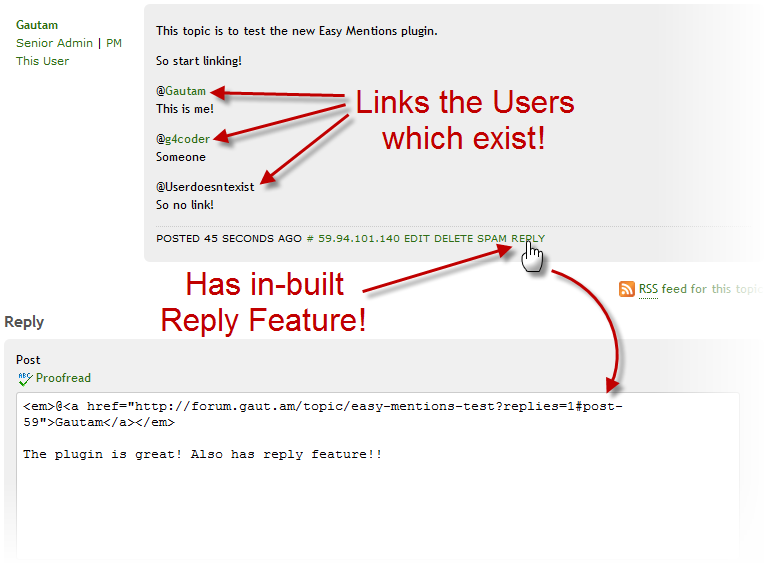
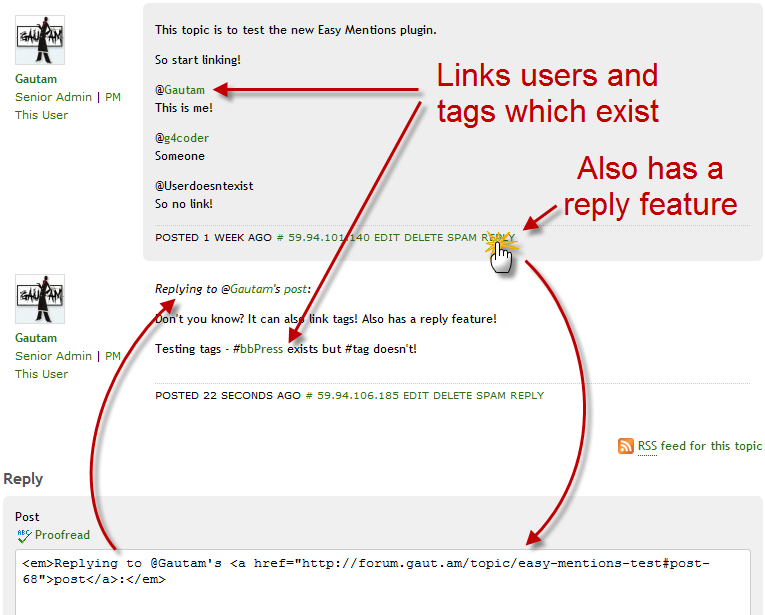
Many Changes

diff --git a/easy-mentions/trunk/js/admin.js b/easy-mentions/trunk/js/admin.js
@@ -1,0 +1,33 @@
+/**
+ * Javascript file for Admin Page
+ * 
+ * @author Gautam Gupta (www.gaut.am)
+ * @link http://gaut.am/bbpress/plugins/easy-mentions/
+ */
+
+jQuery(document).ready(function() {
+	jQuery('#link-users-0').click(function() {
+		if (jQuery(this).is(':checked')){
+			jQuery("input[name='link-user-to']").removeAttr('disabled');
+			jQuery("#option-link-user-to").removeClass('disabled');
+		}else{
+			jQuery("input[name='link-user-to']").attr('disabled', 'disabled');
+			jQuery("#option-link-user-to").addClass('disabled');
+		}
+	});
+	jQuery('#reply-link-0').click(function() {
+		if (jQuery(this).is(':checked')){
+			jQuery("#reply-text").removeAttr('disabled');
+			jQuery("#option-reply-text").removeClass('disabled');
+		}else{
+			jQuery("#reply-text").attr('disabled', 'disabled');
+			jQuery("#option-reply-text").addClass('disabled');
+		}
+	});
+	if (jQuery('#link-users-0').is(':not(:checked)')){
+		jQuery("#option-link-user-to").addClass('disabled');
+	}
+	if (jQuery('#reply-link-0').is(':not(:checked)')){
+		jQuery("#option-reply-text").addClass('disabled');
+	}
+});

diff --git a/easy-mentions/trunk/includes/admin.php b/easy-mentions/trunk/includes/admin.php
@@ -29,29 +29,47 @@ function em_update_check(){
 function em_options(){
 	global $em_plugopts;
 	
-	if ( $_POST['em_opts_submit'] == 1 ) { /* Settings have been recieved, now save them! */
+	if ( $_POST['em_opts_submit'] == 1 ) { /* Settings have been received, now save them! */
 		bb_check_admin_referer( 'em-save-chk' ); /* Security Check */
 		
-		/* Checks on options, also saving them */
-		$em_plugopts['link-to']		= ( $_POST['link-to'] == 'website' ) ? 'website' : 'profile';
-		$em_plugopts['reply-link']	= ( intval( $_POST['reply-link'] ) == 1) ? 1 : 0;
+		/* Checks on options, and then save them */
+		$em_plugopts['link-tags']	= ( intval( $_POST['link-tags'] ) == 1 ) ? 1 : 0;
+		$em_plugopts['link-users']	= ( intval( $_POST['link-users'] ) == 1 ) ? 1 : 0;
+		$em_plugopts['link-user-to']	= ( $_POST['link-user-to'] == 'website' ) ? 'website' : 'profile';
+		$em_plugopts['reply-link']	= ( intval( $_POST['reply-link'] ) == 1 ) ? 1 : 0;
 		$em_plugopts['reply-text']	= esc_attr( $_POST['reply-text'] );
 		
 		bb_update_option( EM_OPTIONS, $em_plugopts );
 		bb_admin_notice( __( 'The options were successfully saved!', 'easy-mentions' ) );
 	}
 	
-	/* Check for Updates */
-	$ver = em_update_check();
-	if ( $ver ) /* If available, then notify */
+	if ( $ver = em_update_check() ) /* Check for Updates and if available, then notify */
 		bb_admin_notice( sprintf( __( 'New version (%1$s) of Easy Mentions is available! Please download the latest version from <a href="%2$s">here</a>.', 'easy-mentions' ), $ver, 'http://bbpress.org/plugins/topic/easy-mentions/' ) );
 	
 	/* Options in an array to be printed */
 	$options = array(
-		'link-to' => array(
+		'link-tags' => array(
+			'title'		=> __( 'Link the Tags?', 'easy-mentions' ),
+			'type'		=> 'checkbox',
+			'value'		=> ( $em_plugopts['link-tags'] == 1 ) ? '1' : '0',
+			'note'		=> __( 'Check this option if you want the tags to be linked (by using <code>#tag</code>) in the posts.', 'easy-mentions' ),
+			'options'	=> array(
+				'1'	=> __( 'Yes', 'easy-mentions' ),
+			)
+		),
+		'link-users' => array(
+			'title'		=> __( 'Link the Users?', 'easy-mentions' ),
+			'type'		=> 'checkbox',
+			'value'		=> ( $em_plugopts['link-users'] == 1 ) ? '1' : '0',
+			'note'		=> __( 'Check this option if you want the users to be linked (by using <code>@user</code>) in the posts.', 'easy-mentions' ),
+			'options'	=> array(
+				'1'	=> __( 'Yes', 'easy-mentions' ),
+			)
+		),
+		'link-user-to' => array(
 			'title'		=> __( 'Link the user to profile or website?', 'easy-mentions' ),
 			'type'		=> 'radio',
-			'value'		=> ( $em_plugopts['link-to'] == 'website' ) ? 'website' : 'profile',
+			'value'		=> ( $em_plugopts['link-user-to'] == 'website' ) ? 'website' : 'profile',
 			'note'		=> __( 'If you selected the website option and the user\'s website does not exist, then the user will be linked to his or her profile page.', 'easy-mentions' ),
 			'options'	=> array(
 				'profile' => __( 'Profile', 'easy-mentions' ),
@@ -61,7 +79,7 @@ function em_options(){
 		'reply-link' => array(
 			'title'		=> __( 'Add a reply link below each post?', 'easy-mentions' ),
 			'type'		=> 'checkbox',
-			'value'		=> ( intval( $em_plugopts['reply-link'] ) == 1) ? '1' : '0',
+			'value'		=> ( $em_plugopts['reply-link'] == 1 ) ? '1' : '0',
 			'note'		=> sprintf( __( 'Before checking this option, please verify that there is a post form below the topic on each page. (<a href="%s">Help</a>)', 'easy-mentions' ), 'http://bbpress.org/plugins/topic/easy-mentions/faq/' ),
 			'options'	=> array(
 				'1' => __( 'Yes', 'easy-mentions' ),
@@ -71,12 +89,18 @@ function em_options(){
 			'title'		=> __( 'Reply Text', 'easy-mentions' ),
 			'class'		=> array( 'long' ),
 			'value'		=> $em_plugopts['reply-text'] ? stripslashes( $em_plugopts['reply-text'] ) : '<em>Replying to @%%USERNAME%%\'s <a href="%%POSTLINK%%">post</a>:</em>',
-			'after'		=> '<div style="clear:both;"></div>' . sprintf( __( 'This applies when the reply feature is ON. Some HTML is allowed. The following keys can also be used:%1$s - Post\'s author\'s name%2$s - Post\'s link', 'after-the-deadline' ), '<br /><strong>%%USERNAME%%</strong>', '<br /><strong>%%POSTLINK%%</strong>' ) . '<br />'
+			'after'		=> '<div style="clear:both;"></div>' . sprintf( __( 'Some HTML is allowed. The following keys can also be used:%1$s - Post\'s author\'s name%2$s - Post\'s link', 'after-the-deadline' ), '<br /><strong>%%USERNAME%%</strong>', '<br /><strong>%%POSTLINK%%</strong>' ) . '<br />'
 		)
 	);
+	if ( $em_plugopts['link-users'] != 1 )
+		$options['link-user-to']['attributes'] = array( 'disabled' => 'disabled' );
+		
+	if ( $em_plugopts['reply-link'] != 1 )
+		$options['reply-text']['attributes'] = array( 'disabled' => 'disabled' );
+	
 	?>
 	
-	<h2><?php _e( 'Easy Mention Options', 'easy-mentions' ); ?></h2>
+	<h2><?php _e( 'Easy Mentions', 'easy-mentions' ); ?></h2>
 	<?php do_action( 'bb_admin_notices' ); ?>
 	<form method="post" class="settings options">
 		<fieldset>
@@ -97,6 +121,17 @@ function em_options(){
 }
 
 /**
+ * Enqueue the javascript in the admin head section
+ *
+ * @uses wp_enqueue_script()
+ */
+function em_admin_head() {
+	global $bb_admin_page;
+	if( $bb_admin_page == 'em_options' )
+		wp_enqueue_script( 'easy-mentions', EM_PLUGPATH.'js/admin.js', array('jquery'), EM_VER );
+}
+
+/**
  * Adds a menu link to the setting's page in the Settings section
  *
  * @uses bb_admin_add_submenu()
@@ -105,4 +140,5 @@ function em_menu_link() {
 	bb_admin_add_submenu( __( 'Easy Mentions', 'easy-mentions' ), 'administrate', 'em_options', 'options-general.php' );
 }
 
-add_action('bb_admin_menu_generator', 'em_menu_link', 8, 0); /* Adds a menu link to setting's page */
+add_action( 'bb_admin_menu_generator', 'em_menu_link', 8, 0 ); /* Adds a menu link to setting's page */
+add_action( 'bb_admin_print_scripts', 'em_admin_head', 2 ); /* Enqueue the Javascript */

diff --git a/easy-mentions/trunk/includes/public.php b/easy-mentions/trunk/includes/public.php
@@ -8,7 +8,7 @@
  */
 
 /**
- * Links the users in the posts
+ * Links the users & tags in posts
  *
  * @see bp_activity_at_name_filter() BuddyPress Function
  * 
@@ -17,50 +17,47 @@
 function em_do_linking( $content ){
 	global $em_plugopts;
 	
-        preg_match_all( '/[@]+([A-Za-z0-9-_]+)/', $content, $usernames );
-
-        if ( !$usernames = array_unique( $usernames[1] ) ) /* Make sure there's only one instance of each username */
-                return $content;
-
-        foreach( (array)$usernames as $username ) {
-                if ( !$user = bb_get_user( $username, array( 'by' => 'login' ) ) ){ //check #1, by username
-			if ( !$user = bb_get_user( $username, array( 'by' => 'nicename' ) ) ) //check #2, by nicename
+	if ( $em_plugopts['link-tags'] == 1 ){
+		preg_match_all( '/[#]+([A-Za-z0-9-_]+)/', $content, $tags );
+		$tags = $tags[1];
+	
+		foreach( (array)$tags as $tag ) {
+			if ( !$t = bb_get_tag( $tag ) )
 				continue;
-                }
-
-                /* Increase the number of new @ mentions for the user - maybe later */
-                /*$new_mention_count = (int)bb_get_usermeta( $user_id, 'em_mention_count' );
-                bb_update_usermeta( $user_id, 'em_mention_count', $new_mention_count + 1 );*/
-		
-		if ( 'website' == $em_plugopts['link-to'] ) {
-			if ( !$link = $user->user_url )
-				$link = get_user_profile_link( $user->ID );
-		} else {
-			$link = get_user_profile_link( $user->ID );
+			
+			if ( $link = bb_get_tag_link( $t ) )
+				$content = str_replace( "#$tag", "#<a href='" . $link . "'>$tag</a>", $content ); //should we add rel='nofollow'?
 		}
-		
-		if ( $link )
-			$content = str_replace( "@$username", "@<a href='" . $link . "'>$username</a>", $content ); //should we add rel='nofollow'?
-        }
+	}
+	
+	if ( $em_plugopts['link-users'] == 1 ){
+		preg_match_all( '/[@]+([A-Za-z0-9-_]+)/', $content, $usernames );
+	
+		$usernames = $usernames[1];
+	
+		foreach( (array)$usernames as $username ) {
+			if ( !$user = bb_get_user( $username, array( 'by' => 'login' ) ) ){ //check #1, by username
+				if ( !$user = bb_get_user( $username, array( 'by' => 'nicename' ) ) ) //check #2, by nicename
+					continue;
+			}
+	
+			/* Increase the number of new @ mentions for the user - maybe later */
+			/*$new_mention_count = (int)bb_get_usermeta( $user_id, 'em_mention_count' );
+			bb_update_usermeta( $user_id, 'em_mention_count', $new_mention_count + 1 );*/
+			
+			if ( 'website' == $em_plugopts['link-user-to'] ) {
+				if ( !$link = $user->user_url )
+					$link = get_user_profile_link( $user->ID );
+			} else {
+				$link = get_user_profile_link( $user->ID );
+			}
+			
+			if ( $link )
+				$content = str_replace( "@$username", "@<a href='" . $link . "'>$username</a>", $content ); //should we add rel='nofollow'?
+		}
+	}
 
         return $content;
-}
-
-/**
- * Parse the text and insert username and post link in place of %%USERNAME%% and %%POSTLINK%%
- *
- * @param $text The text to be parsed
- * @param $username Username
- * @param $post_link The link of the post
- */
-function em_parse_text( $text, $username, $post_link ){
-	if ( !$text )
-		return;
-	
-	$text = str_replace( "%%USERNAME%%", $username, $text );
-	$text = str_replace( "%%POSTLINK%%", $post_link, $text );
-	
-	return $text;
 }
 
 /**
@@ -69,11 +66,11 @@ function em_parse_text( $text, $username, $post_link ){
  * @param $post_links Array of the links
  * @param $args Array of args
  */
-function em_reply_link( $post_links, $args ) {
+function em_reply_link( $post_links = array(), $args = array() ) {
 	global $em_plugopts;
 	
 	if ( $em_plugopts['reply-link'] == 1 && $em_plugopts['reply-text'] && bb_is_topic() && topic_is_open() && ( bb_is_user_logged_in() || ( function_exists( 'bb_is_login_required' ) && !bb_is_login_required() ) ) ){ /* Check if link is needed */
-		$text		= em_parse_text( $em_plugopts['reply-text'], get_post_author(), get_post_link() );
+		$text		= str_replace( "%%POSTLINK%%", get_post_link(), str_replace( "%%USERNAME%%", get_post_author(), $em_plugopts['reply-text'] ) );
 		$js		= "var ema=document.getElementById('post_content');var emb=ema.value;if(emb!='')emb+='\\n\\n';ema.value=emb+'" . $text . "\\n\\n';ema.focus();void(0);";
 		$post_links[]	= $args['before_each'] . '<a class="reply_link" style="cursor:pointer" onclick="' . $js . '">' . __( 'Reply', 'easy-mentions' ) . '</a>' . $args['after_each'];
 	}

diff --git a/easy-mentions/trunk/easy-mentions.php b/easy-mentions/trunk/easy-mentions.php
@@ -1,13 +1,11 @@
 <?php
 /*
-Plugin Name: Easy Mentions
-Plugin URI: http://gaut.am/bbpress/plugins/easy-mentions/
-Description: Easy Mentions allows the users to link to other users' profiles in posts by using @username (like Twitter).
-Version: 0.1.1
-Author: Gautam Gupta
-Author URI: http://gaut.am/
-
-@license http://www.gnu.org/licenses/gpl-3.0.txt GNU General Public License, Version 3
+ Plugin Name: Easy Mentions
+ Plugin URI: http://gaut.am/bbpress/plugins/easy-mentions/
+ Description: Easy Mentions allows the users to link to other users' profiles in posts by using @username (like Twitter).
+ Author: Gautam Gupta
+ Author URI: http://gaut.am/
+ Version: 0.1.1
 */
 
 /**
@@ -15,6 +13,7 @@ Author URI: http://gaut.am/
  * @subpackage Main Section
  * @author Gautam Gupta (www.gaut.am)
  * @link http://gaut.am/bbpress/plugins/easy-mentions/
+ * @license GNU General Public License version 3 (GPLv3): http://www.opensource.org/licenses/gpl-3.0.html
  */
 
 bb_load_plugin_textdomain( 'easy-mentions', dirname( __FILE__ ) . '/languages' ); /* Create Text Domain For Translations */
@@ -22,14 +21,26 @@ bb_load_plugin_textdomain( 'easy-mentions', dirname( __FILE__ ) . '/languages' )
 /* Defines */
 define( 'EM_VER', '0.2-beta' ); /* Version */
 define( 'EM_OPTIONS','Easy-Mentions' ); /* Option Name */
+define( 'EM_PLUGPATH', bb_get_plugin_uri( bb_plugin_basename( __FILE__ ) ) ); /* Plugin URL */
 
+/* Get the options, if not found then set them */
 $em_plugopts = bb_get_option( EM_OPTIONS );
-if ( !is_array( $em_plugopts ) ) { /* Set the Options if they are not set */
+if ( !is_array( $em_plugopts ) ) {
 	$em_plugopts = array(
-		'link-to'	=> 'profile',
-		'reply-link'	=> '',
-		'reply-text'	=> "<em>Replying to @%%USERNAME%%\'s <a href=\"%%POSTLINK%%\">post</a>:</em>"
+		'link-tags'	=> 1,
+		'link-users'	=> 1,
+		'link-user-to'	=> 'profile',
+		'reply-link'	=> 0,
+		'reply-text'	=> "<em>Replying to @%%USERNAME%%\'s <a href=\"%%POSTLINK%%\">post</a>:</em>",
 	);
+	bb_update_option( EM_OPTIONS, $em_plugopts );
+}
+
+if ( $em_plugopts['link-to'] ) { /* Update the old options, will be removed in v0.4 */
+	unset( $em_plugopts['link-to'] );
+	$em_plugopts['link-users']	= 1;
+	$em_plugopts['link-tags']	= 1;
+	$em_plugopts['link-user-to']	= ( $em_plugopts['link-to'] == 'website' ) ? 'website' : 'profile';
 	bb_update_option( EM_OPTIONS, $em_plugopts );
 }
 
